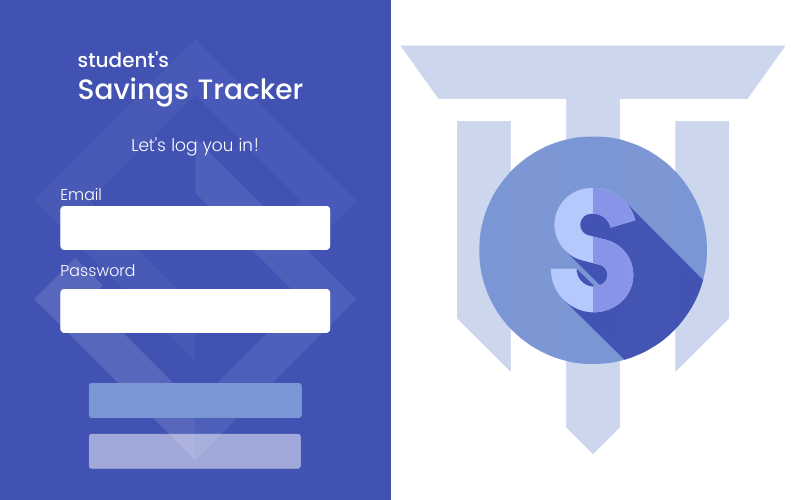
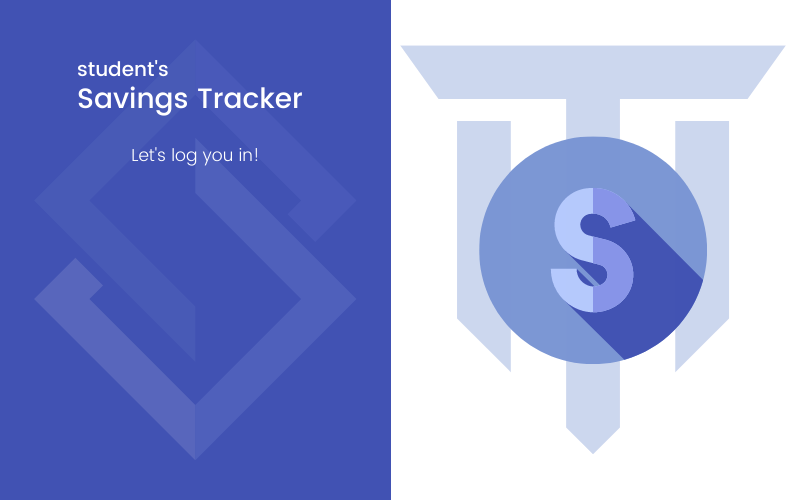
[FEATURE] Add login

diff --git a/app/login.py b/app/login.py
@@ -1,13 +1,16 @@
+from msilib.schema import AdminExecuteSequence
 from tkinter import *
 import tkinter.messagebox
 import os
 
+isLogged = True
+
 class login():
 
-    def __init__():
+    def __init__(user, pw):
 
         def __start__():
-            root  = Tk()
+            root = Tk()
             root.title('Savings Tracker')
             root.geometry("800x500") # orig window 700x350
             root.resizable(False, False) # set to true to make window resizable
@@ -16,6 +19,54 @@ class login():
 
             print(' LOGIN FOUND')
 
+            # create account button ui
+            getcreate = PhotoImage(file='app/res/createacc.png')
+            setcreate = Label(image=getcreate)
+            """def clickCreate(text):
+                tkinter.messagebox.showinfo("Terms of Service", text)
+                global isLogin 
+                isLogin = True"""
+            createbutton = Button(root, image=getcreate, borderwidth=0, bg='#4152B3')
+                #command=lambda: onClick("You accepted Terms of Service"))
+            createbutton.place(y=217, x=60)
+            
+            # ============= create login button ui =============
+            getlogin = PhotoImage(file='app/res/loginacc.png')
+            setlogin = Label(image=getlogin)
+            
+            # login popup window
+            def clickLogin():
+                login = Toplevel(root)
+                login.title(f'User Login')
+                login.geometry('350x500')
+                login.resizable(False, False)
+                login.configure(bg=f'#7B96D4')
+
+                l1=Label(login,text='Username',bg='white')
+                l=('Consolas',13)
+                l1.config(font=l)
+                l1.place(x=80,y=200)
+
+                #e1 entry for username entry
+                e1=Entry(login,width=20,border=0)
+                l=('Consolas',13)
+                e1.config(font=l)
+                e1.place(x=80,y=230)
+
+            createbutton = Button(root, image=getlogin, borderwidth=0, bg='#4152B3',
+                command=lambda: clickLogin())
+            createbutton.place(y=281, x=60)
+            # ============= end create login button ui =============
+
+            # #4152B3
+
             root.mainloop()
         
         __start__()
+
+        if isLogged:
+            return True
+            
+
+        
+            

diff --git a/app/main.py b/app/main.py
@@ -2,6 +2,9 @@ from init_db import database
 from tos import *
 from login import *
 
+user = f''
+pw = f''
+
 def __init__():
 
     isOK_db = database.__init__()
@@ -13,6 +16,9 @@ def __init__():
         if isOK_tos:
             print(f' TOS OK')
             print(f'\n GET LOGIN')
-            login.__init__()
+            isOK_login = login.__init__(user, pw)
+
+            if isOK_login:
+                print(f'Logged')
 
 __init__()
